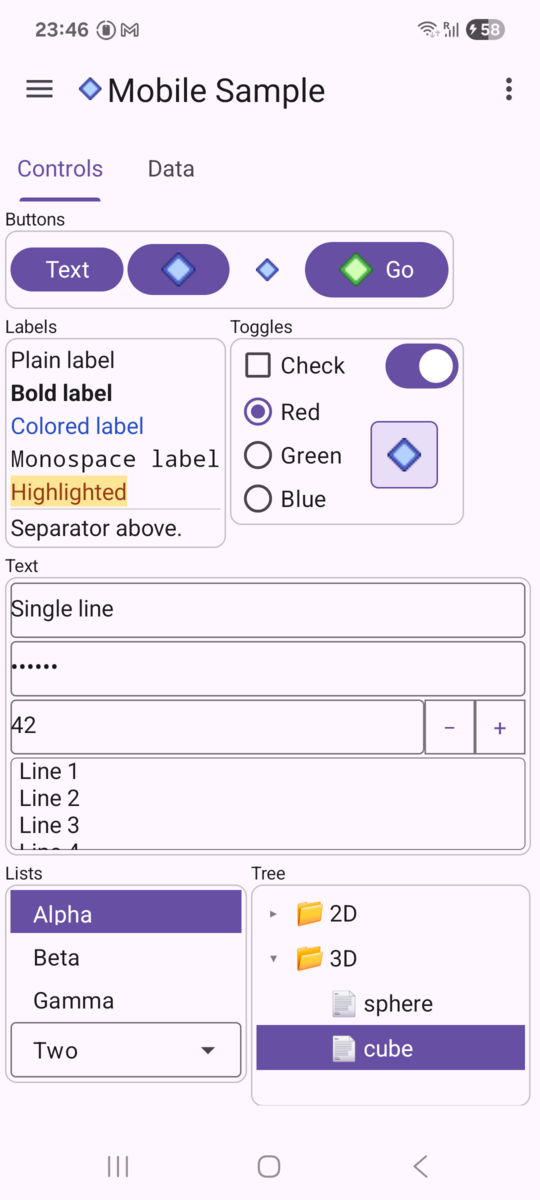
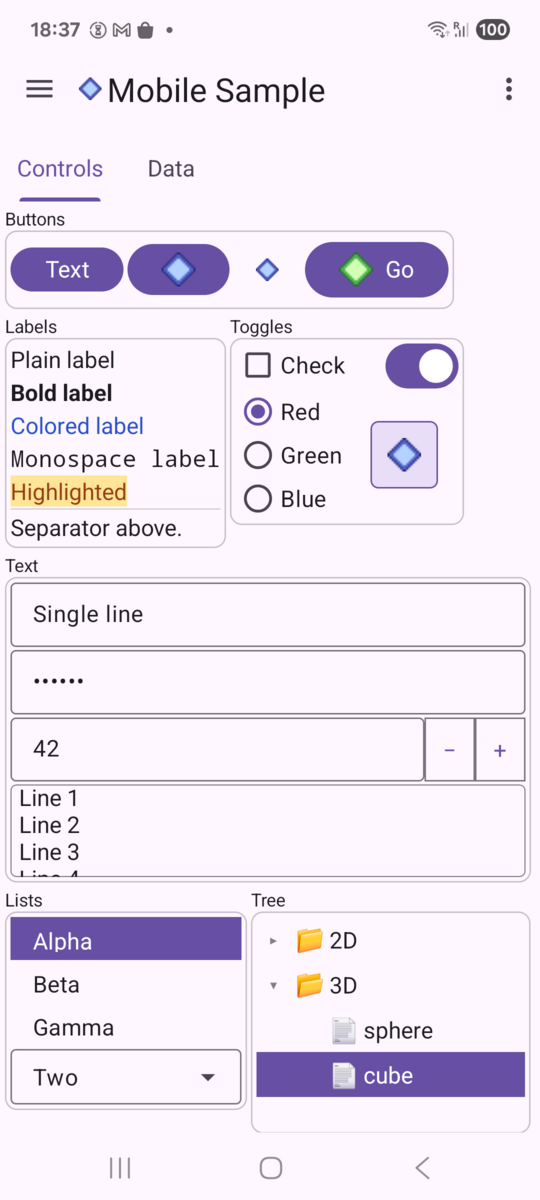
android: Style text fields from the TextInputLayout context

diff --git a/iup/external/android/library/src/main/java/io/github/gen2brain/iupgo/IupTextHelper.java b/iup/external/android/library/src/main/java/io/github/gen2brain/iupgo/IupTextHelper.java
@@ -170,12 +170,17 @@ public final class IupTextHelper
     }
 
 
-    private static IupEditText newEditText(long ihandlePtr, int maxLines, boolean materialContext)
+    private static TextInputLayout newTextInputLayout()
     {
-        Context ctx = materialContext
-            ? IupCommon.getContextThemeWrapper()
-            : new ContextThemeWrapper(IupCommon.getContextThemeWrapper(),
-                android.R.style.Theme_DeviceDefault);
+        TextInputLayout til = new TextInputLayout(new ContextThemeWrapper(IupCommon.getContextThemeWrapper(), R.style.IupTextInputTheme));
+        til.setBoxBackgroundMode(TextInputLayout.BOX_BACKGROUND_OUTLINE);
+        til.setHintEnabled(false);
+        til.setBoxCollapsedPaddingTop(0);
+        return til;
+    }
+
+    private static IupEditText newEditText(long ihandlePtr, int maxLines, Context ctx)
+    {
         IupEditText tv = new IupEditText(ctx, ihandlePtr);
         if (maxLines > 0) tv.setMaxLines(maxLines);
         applyTextPalette(tv);
@@ -187,18 +192,13 @@ public final class IupTextHelper
     @Keep
     public static View createSingleLineText(final long ihandlePtr)
     {
-        IupEditText tv = newEditText(ihandlePtr, 1, true);
+        TextInputLayout til = newTextInputLayout();
+        IupEditText tv = newEditText(ihandlePtr, 1, til.getContext());
         tv.setSingleLine(true);
         /* NO_SUGGESTIONS so filter sees per-key, not composition batches. */
         tv.setInputType(InputType.TYPE_CLASS_TEXT
             | InputType.TYPE_TEXT_VARIATION_NORMAL
             | InputType.TYPE_TEXT_FLAG_NO_SUGGESTIONS);
-
-        /* M3 textInputStyle is FilledBox; hint stays off until CUEBANNER is set. */
-        TextInputLayout til = new TextInputLayout(IupCommon.getContextThemeWrapper());
-        til.setBoxBackgroundMode(TextInputLayout.BOX_BACKGROUND_OUTLINE);
-        til.setHintEnabled(false);
-        til.setBoxCollapsedPaddingTop(0);
         tv.setMinHeight(0);
         tv.setMinimumHeight(0);
         til.addView(tv, new LinearLayout.LayoutParams(
@@ -216,7 +216,7 @@ public final class IupTextHelper
     @Keep
     public static View createMultiLineText(final long ihandlePtr, boolean wordWrap, boolean autoHide)
     {
-        IupEditText tv = newEditText(ihandlePtr, 0, false);
+        IupEditText tv = newEditText(ihandlePtr, 0, new ContextThemeWrapper(IupCommon.getContextThemeWrapper(), android.R.style.Theme_DeviceDefault));
         tv.setInputType(InputType.TYPE_CLASS_TEXT
             | InputType.TYPE_TEXT_VARIATION_NORMAL
             | InputType.TYPE_TEXT_FLAG_MULTI_LINE
@@ -276,16 +276,12 @@ public final class IupTextHelper
     @Keep
     public static View createSpinnerText(final long ihandlePtr)
     {
-        final IupEditText tv = newEditText(ihandlePtr, 1, true);
+        Context ctx = IupCommon.getContextThemeWrapper();
+        TextInputLayout til = newTextInputLayout();
+        final IupEditText tv = newEditText(ihandlePtr, 1, til.getContext());
         tv.setSingleLine(true);
         tv.setInputType(InputType.TYPE_CLASS_NUMBER | InputType.TYPE_NUMBER_FLAG_SIGNED);
         tv.setGravity(Gravity.CENTER_VERTICAL | Gravity.START);
-
-        Context ctx = IupCommon.getContextThemeWrapper();
-        TextInputLayout til = new TextInputLayout(ctx);
-        til.setBoxBackgroundMode(TextInputLayout.BOX_BACKGROUND_OUTLINE);
-        til.setHintEnabled(false);
-        til.setBoxCollapsedPaddingTop(0);
         tv.setMinHeight(0);
         tv.setMinimumHeight(0);
         til.addView(tv, new LinearLayout.LayoutParams(
@@ -1055,8 +1051,34 @@ public final class IupTextHelper
         sEditTextPadV = probe.getCompoundPaddingTop() + probe.getCompoundPaddingBottom();
     }
 
-    @Keep public static int getTextInputLayoutBorderH() { return (int)(32f * IupCommon.getDisplayDensity()); }
-    @Keep public static int getTextInputLayoutBorderV() { return (int)(20f * IupCommon.getDisplayDensity()); }
+    private static int sTilPadH = -1;
+    private static int sTilPadV = -1;
+
+    @Keep
+    public static int getTextInputLayoutBorderH()
+    {
+        if (sTilPadH < 0) measureTextInputLayoutPadding();
+        return sTilPadH;
+    }
+
+    @Keep
+    public static int getTextInputLayoutBorderV()
+    {
+        if (sTilPadV < 0) measureTextInputLayoutPadding();
+        return sTilPadV;
+    }
+
+    private static synchronized void measureTextInputLayoutPadding()
+    {
+        if (sTilPadH >= 0) return;
+        TextInputLayout til = newTextInputLayout();
+        TextInputEditText probe = new TextInputEditText(til.getContext());
+        probe.setSingleLine(true);
+        til.addView(probe, new LinearLayout.LayoutParams(
+            ViewGroup.LayoutParams.MATCH_PARENT, ViewGroup.LayoutParams.WRAP_CONTENT));
+        sTilPadH = probe.getCompoundPaddingLeft() + probe.getCompoundPaddingRight() + til.getPaddingLeft() + til.getPaddingRight();
+        sTilPadV = probe.getCompoundPaddingTop() + probe.getCompoundPaddingBottom() + til.getPaddingTop() + til.getPaddingBottom();
+    }
 
     /** Fires LINK_CB(url); no return value (IUP LINK_CB ignores result for the span path). */
     public static native void dispatchLinkClick(long ihandlePtr, String url);
